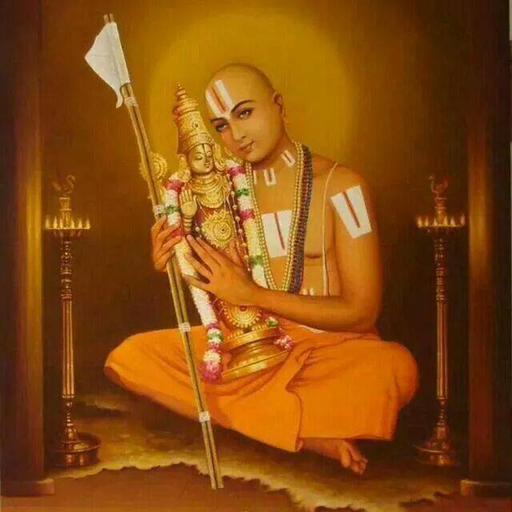
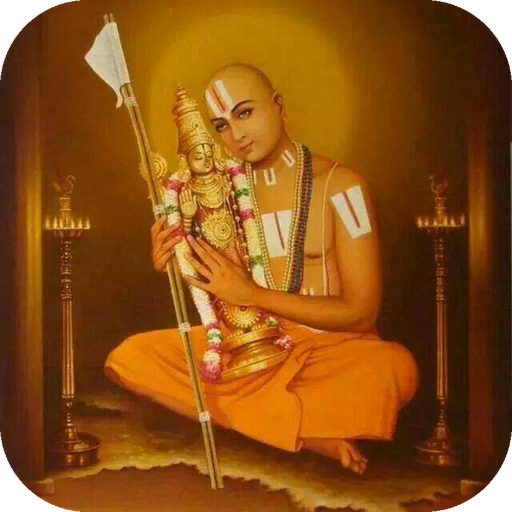
Add rounded painting and transparent figure launcher choices

diff --git a/scripts/make_launcher_icon.py b/scripts/make_launcher_icon.py
@@ -1,35 +1,57 @@
 #!/usr/bin/env python3
-"""Package the user's square artwork full-bleed as Android launcher icons.
+"""Build two Android launchers from the user's unchanged artwork.
 
-The original image is scaled only. Launcher masks may crop its corners.
+A: full painting with legacy rounded corners. B: masked original RGB pixels
+for the figure and deity on transparent foreground. No generated painting.
 """
 from pathlib import Path
-from PIL import Image, ImageDraw
+from PIL import Image,ImageDraw
 
-ROOT = Path(__file__).resolve().parents[1]
-RES = ROOT/'app/src/main/res'
-OUT = ROOT/'design'
-SOURCE = OUT/'source/user-provided-icon.jpg'
-BACKGROUND = '#4b2818'
-MASTER = 864
+ROOT=Path(__file__).resolve().parents[1]
+RES=ROOT/'app/src/main/res'
+OUT=ROOT/'design'
+SOURCE=OUT/'source/user-provided-icon.jpg'
+CUTOUT=OUT/'figure-cutout.png'
+MASTER=864
+image=Image.open(SOURCE).convert('RGB')
+assert image.size==(640,640), 'Recheck source artwork before regenerating'
+full=image.resize((MASTER,MASTER),Image.Resampling.LANCZOS)
+cut=Image.open(CUTOUT).convert('RGBA')
+assert cut.size==(640,640)
+bounds=cut.getchannel('A').getbbox()
+assert bounds is not None
+# Center the complete cutout including staff, pennant and feet in the adaptive
+# 72/108dp guaranteed visible disc. No painting pixels are recolored.
+figure=cut.crop(bounds)
+max_extent=MASTER*0.63
+ratio=min(max_extent/figure.width,max_extent/figure.height)
+figure=figure.resize((round(figure.width*ratio),round(figure.height*ratio)),Image.Resampling.LANCZOS)
+foreground=Image.new('RGBA',(MASTER,MASTER),(0,0,0,0))
+foreground.alpha_composite(figure,((MASTER-figure.width)//2,(MASTER-figure.height)//2))
 
-image = Image.open(SOURCE).convert('RGB')
-assert image.size == (640,640), 'Recheck source artwork before regenerating'
+def rounded(canvas,radius):
+    mask=Image.new('L',canvas.size);ImageDraw.Draw(mask).rounded_rectangle((0,0,canvas.width-1,canvas.height-1),radius=radius,fill=255)
+    out=canvas.copy().convert('RGBA');out.putalpha(mask);return out
 
-master = image.resize((MASTER,MASTER),Image.Resampling.LANCZOS)
+def circle(canvas):
+    mask=Image.new('L',canvas.size);ImageDraw.Draw(mask).ellipse((0,0,canvas.width-1,canvas.height-1),fill=255)
+    out=canvas.copy().convert('RGBA');out.putalpha(mask);return out
+
 for density,px in [('mdpi',108),('hdpi',162),('xhdpi',216),('xxhdpi',324),('xxxhdpi',432)]:
     path=RES/('mipmap-'+density);path.mkdir(exist_ok=True)
-    master.resize((px,px),Image.Resampling.LANCZOS).save(path/'ic_launcher_foreground.png')
+    full.resize((px,px),Image.Resampling.LANCZOS).save(path/'ic_launcher_foreground.png')
+    foreground.resize((px,px),Image.Resampling.LANCZOS).save(path/'ic_launcher_cutout_foreground.png')
 for density,px in [('mdpi',48),('hdpi',72),('xhdpi',96),('xxhdpi',144),('xxxhdpi',192)]:
     path=RES/('mipmap-'+density)
-    flat=master.resize((px,px),Image.Resampling.LANCZOS)
-    flat.save(path/'ic_launcher.png')
-    mask=Image.new('L',(px,px));ImageDraw.Draw(mask).ellipse((0,0,px-1,px-1),fill=255)
-    flat.putalpha(mask)
-    flat.save(path/'ic_launcher_round.png')
-master.resize((512,512),Image.Resampling.LANCZOS).save(OUT/'launcher-icon-preview.png')
-# Simulate a round adaptive launcher mask over the full-bleed foreground.
-# The 72dp disc is the guaranteed visible zone of its 108dp canvas.
-mask=Image.new('L',(MASTER,MASTER));ImageDraw.Draw(mask).ellipse((144,144,720,720),fill=255)
-round_icon=master.copy().convert('RGBA');round_icon.putalpha(mask)
-round_icon.crop((144,144,720,720)).resize((48,48),Image.Resampling.LANCZOS).save(OUT/'launcher-adaptive-48px-preview.png')
+    fullscaled=full.resize((px,px),Image.Resampling.LANCZOS)
+    rounded(fullscaled,round(px*.17)).save(path/'ic_launcher.png')
+    circle(fullscaled).save(path/'ic_launcher_round.png')
+    figure_scaled=foreground.resize((px,px),Image.Resampling.LANCZOS)
+    figure_scaled.save(path/'ic_launcher_cutout.png')
+    figure_scaled.save(path/'ic_launcher_cutout_round.png')
+rounded(full,round(MASTER*.17)).resize((512,512),Image.Resampling.LANCZOS).save(OUT/'launcher-icon-preview.png')
+foreground.resize((512,512),Image.Resampling.LANCZOS).save(OUT/'launcher-cutout-preview.png')
+# For actual round-launcher size show the full adaptive circle with the cutout
+# inside it, not a falsely enlarged crop of the guaranteed-safe center.
+small=foreground.resize((48,48),Image.Resampling.LANCZOS)
+circle(small).save(OUT/'launcher-cutout-round-48px-preview.png')

diff --git a/app/src/main/java/org/divyaprabandham/reader/MainActivity.java b/app/src/main/java/org/divyaprabandham/reader/MainActivity.java
@@ -3,6 +3,8 @@ package org.divyaprabandham.reader;
 import android.app.Activity;
 import android.app.AlertDialog;
 import android.content.Intent;
+import android.content.ComponentName;
+import android.content.pm.PackageManager;
 import android.net.Uri;
 import android.graphics.Bitmap;
 import android.graphics.BitmapFactory;
@@ -184,10 +186,28 @@ public final class MainActivity extends Activity {
         LinearLayout choices=new LinearLayout(this);pad(choices,0,10,0,0);add(themes,choices);
         for(int i=0;i<NAMES.length;i++){final int t=i;Button pick=button(NAMES[i],()->{theme=t;preferences.edit().putInt("theme",theme).apply();showHome();},i==theme);
             pick.setTextSize(10);choices.addView(pick,new LinearLayout.LayoutParams(0,dp(48),1));}
+        LinearLayout icons=card(body);add(icons,text("App icon",14,fg(),true));
+        add(icons,text("Choose the full rounded painting or the transparent Ramanujar-and-deity cutout. Some launchers take a moment to update.",12,muted(),false));
+        boolean cutoutIcon=preferences.getBoolean("cutout-launcher",false);
+        add(icons,button(cutoutIcon?"Use rounded full painting":"Rounded full painting selected",()->setLauncherIcon(false),!cutoutIcon));
+        add(icons,button(cutoutIcon?"Cutout selected":"Use figure cutout",()->setLauncherIcon(true),cutoutIcon));
         add(card(body),button(elderMode?"Elder mode on · turn off":"Elder mode · larger text and controls",()->{
             elderMode=!elderMode;preferences.edit().putBoolean("elder",elderMode).apply();showHome();
         },elderMode));
         add(card(body),text("All 4,000 numbered pasurams are available offline. Audio playback is coming in the next milestone.",13,muted(),false));
+    }
+    private void setLauncherIcon(boolean cutout){
+        PackageManager pm=getPackageManager();
+        ComponentName chosen=new ComponentName(this,cutout?"org.divyaprabandham.reader.CutoutLauncher":"org.divyaprabandham.reader.FullPaintingLauncher");
+        ComponentName other=new ComponentName(this,cutout?"org.divyaprabandham.reader.FullPaintingLauncher":"org.divyaprabandham.reader.CutoutLauncher");
+        try{
+            // Enable before disabling, so a failed second step never leaves no launcher.
+            pm.setComponentEnabledSetting(chosen,PackageManager.COMPONENT_ENABLED_STATE_ENABLED,PackageManager.DONT_KILL_APP);
+            pm.setComponentEnabledSetting(other,PackageManager.COMPONENT_ENABLED_STATE_DISABLED,PackageManager.DONT_KILL_APP);
+            preferences.edit().putBoolean("cutout-launcher",cutout).apply();
+            showHome();Toast.makeText(this,"Icon may take a moment to update on your launcher",Toast.LENGTH_SHORT).show();
+        }catch(Exception ex){android.util.Log.w("LauncherIcon","Could not change icon",ex);
+            Toast.makeText(this,"Could not switch app icon",Toast.LENGTH_LONG).show();}
     }
     private void showBooks(){page="Books";start("The 4,000 pasurams","25 prabandhams · offline","Recite");
         int shown=0;

diff --git a/scripts/make_cutout.py b/scripts/make_cutout.py
@@ -1,0 +1,37 @@
+#!/usr/bin/env python3
+"""Manual alpha-mat of the user's artwork; source RGB is left unchanged."""
+from pathlib import Path
+from PIL import Image,ImageDraw,ImageFilter
+p=Path(__file__).resolve().parents[1]/'design'
+source=Image.open(p/'source/user-provided-icon.jpg').convert('RGB')
+scale=4
+mat=Image.new('L',(640*scale,640*scale))
+d=ImageDraw.Draw(mat)
+def polygon(pts):d.polygon([(x*scale,y*scale) for x,y in pts],fill=255)
+# Cut only the object contours. No pixel colour on the figures is synthesized.
+# Cloth pennant with its attached flagpole.
+polygon([(132,18),(145,19),(150,31),(156,54),(161,76),(169,102),(178,126),
+ (172,139),(166,137),(160,126),(151,129),(143,126),(130,121),(120,106),
+ (109,104),(105,99),(112,89),(118,76),(106,70),(105,65),(112,50),(120,43),(126,27)])
+# Staff from the pennant to its complete bottom endpoint.
+polygon([(145,82),(157,80),(178,151),(190,201),(211,267),(228,337),
+ (245,415),(259,485),(272,547),(279,609),(266,617),(253,562),(242,502),
+ (227,431),(211,365),(194,286),(177,218),(161,158)])
+# Ramanujar, the deity, robes, seated feet and pedestal.
+polygon([(227,105),(237,100),(247,108),(256,113),(262,130),(269,114),
+ (271,102),(282,91),(291,81),(307,77),(318,77),(340,82),(352,92),
+ (359,104),(367,125),(366,143),(373,158),(384,171),(413,182),
+ (440,204),(453,219),(462,246),(466,269),(480,302),(488,329),
+ (491,363),(486,388),(474,400),(479,415),(504,430),(518,442),
+ (524,455),(526,465),(520,476),(505,489),(485,498),(482,516),
+ (485,545),(484,560),(475,570),(458,573),(440,570),(425,577),
+ (418,587),(405,591),(393,584),(376,562),(352,560),(324,563),
+ (302,559),(278,556),(265,548),(244,546),(221,538),(200,531),
+ (180,529),(162,525),(147,518),(136,504),(130,491),(126,476),
+ (130,460),(140,449),(157,439),(173,429),(193,419),(198,398),
+ (200,378),(202,348),(196,327),(191,313),(184,298),(180,283),
+ (182,263),(187,247),(196,239),(204,239),(200,225),(190,221),
+ (180,211),(173,195),(173,177),(180,167),(190,163),(201,159),
+ (202,150),(208,131),(216,117)])
+mat=mat.resize((640,640),Image.Resampling.LANCZOS).filter(ImageFilter.GaussianBlur(.6))
+rgba=source.copy().convert('RGBA');rgba.putalpha(mat);rgba.save(p/'figure-cutout.png')
